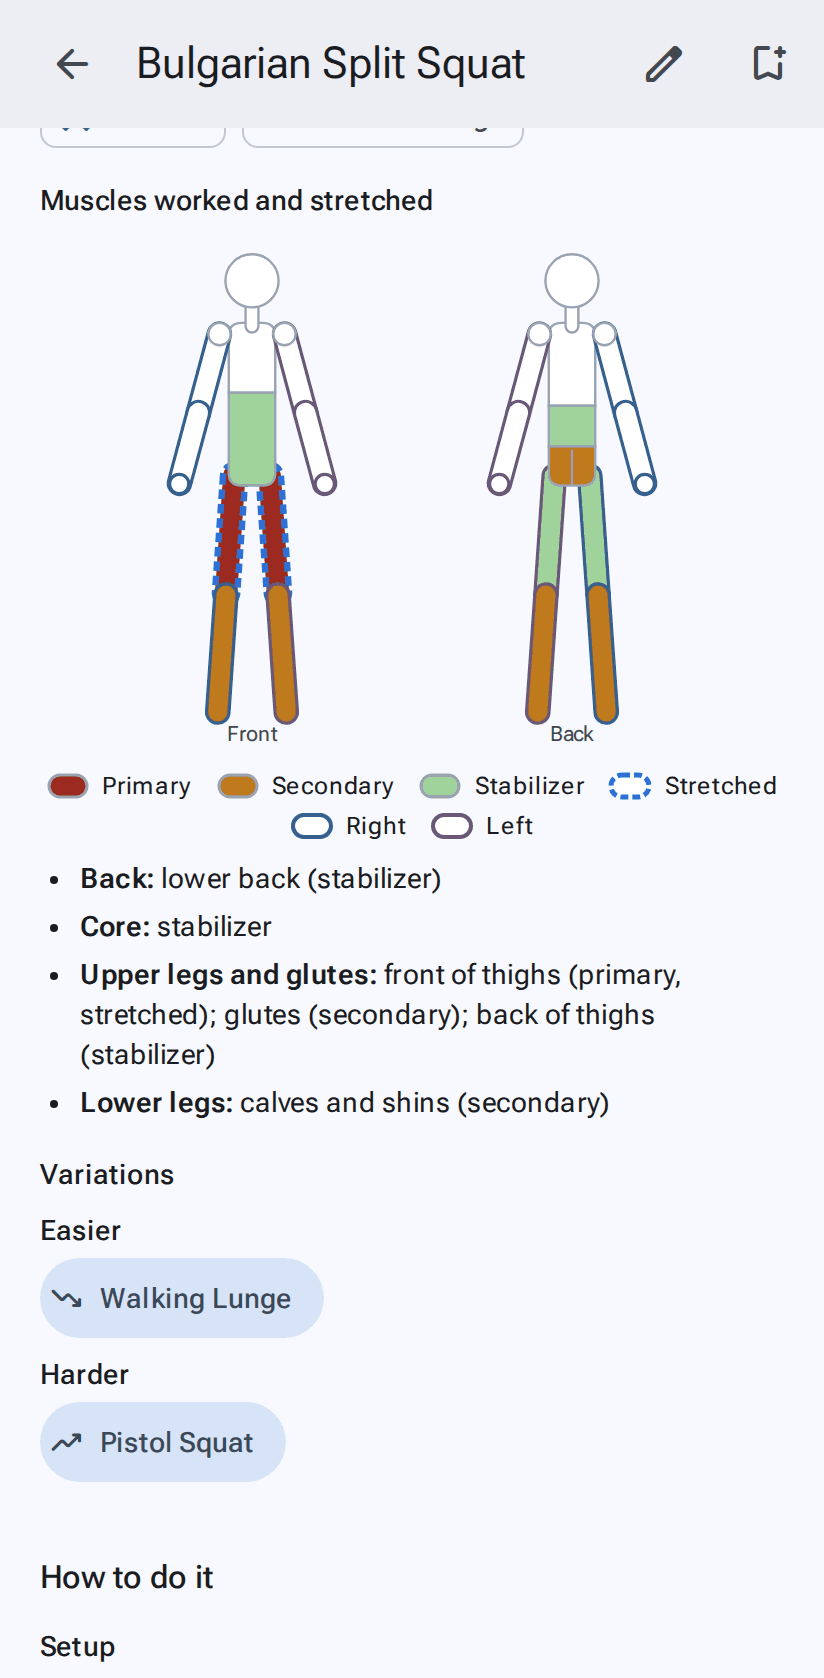
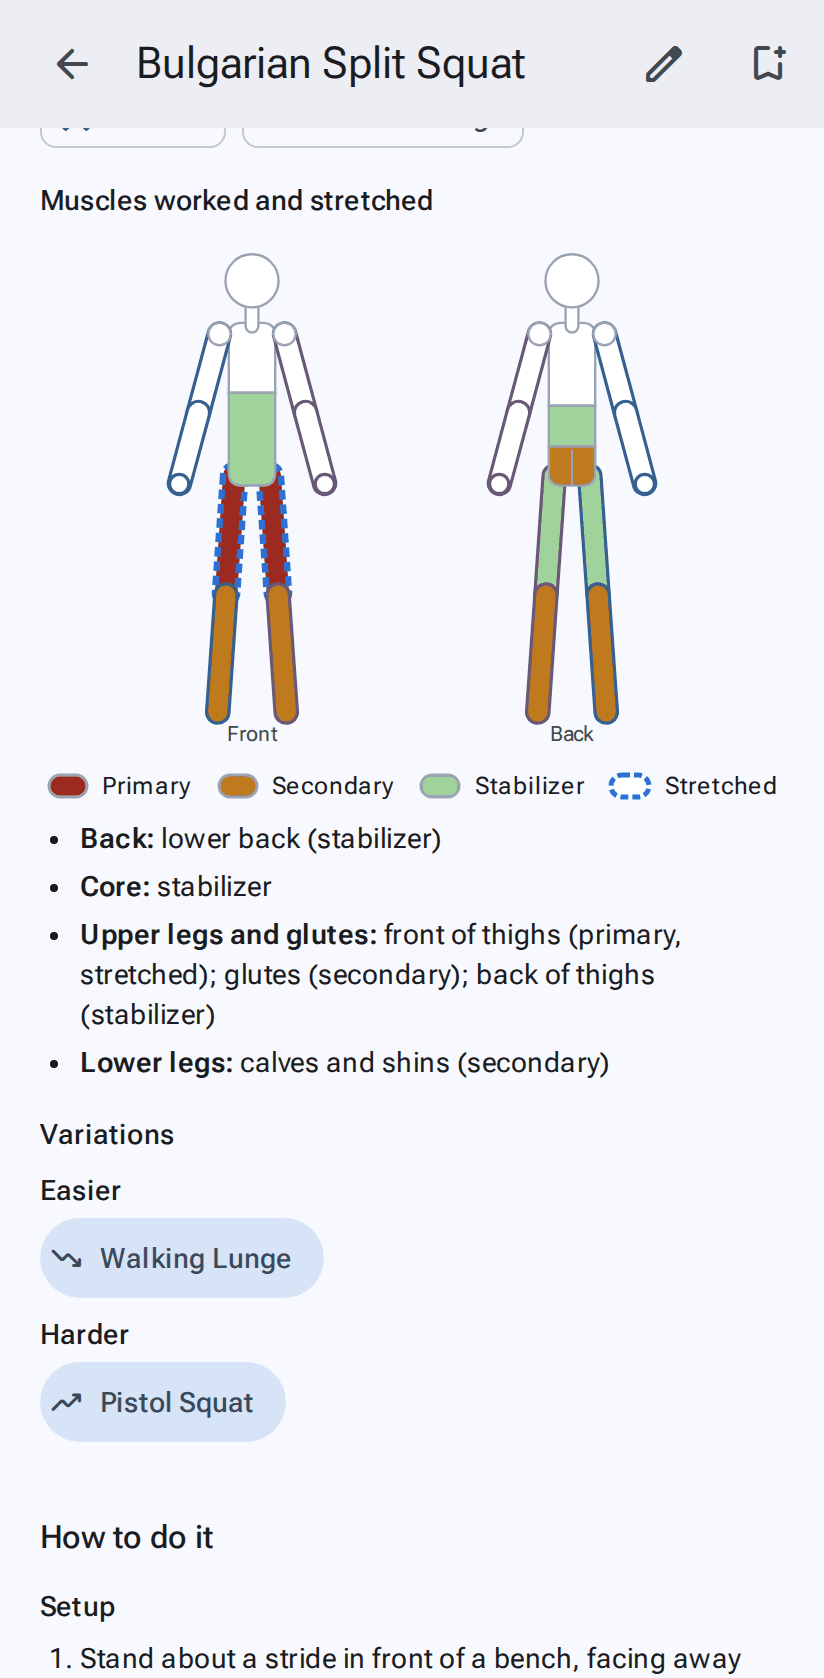
Muscle map: Right and Left out of the legend (owner); the outline colours stay
Claude-Session: https://claude.ai/code/session_0133kyx5MPf8aRU2sQwm2BG7

Changed region(s): [[0.0303, 0.4648, 0.9102, 1.0], [0.6068, 0.4648, 0.6371, 0.4958]]

diff --git a/src/app/2-muscles.js b/src/app/2-muscles.js
@@ -79,7 +79,7 @@ function workoutMusclesHTML(w, compact) {
   const words = g => [t[g] >= 0.05 ? mgNum(t[g]) : '', st.has(g) ? 'stretched' : ''].filter(Boolean).join(', ');
   const list = MUSCLE_HEADS.map(([h, gs]) => { const x = gs.filter(g => t[g] >= 0.05 || st.has(g));
     return x.length ? `<li><b>${h}:</b> ${x.map(g => MUSCLE_NAMES[g] === h ? words(g) : `${MUSCLE_NAMES[g].toLowerCase()} ${words(g)}`).join('; ')}</li>` : ''; }).join('');
-  return `${fig}${MG_SCALE}<div class="mg-legend body-small" aria-hidden="true">${stList.length ? mgSwatch('var(--mg-empty)', true, 'Stretched') : ''}${mgSides()}</div><p class="body-small muted mg-note">Estimated work, in sets: green up to 2, amber 2–5, red above 5. A set near the suggested reps counts 1; muscles that help count ½, those that steady you ¼. Stretches don't add to the sets: a dashed blue outline marks every group the workout stretches.${unrated ? ` ${plural(unrated, { one: '# exercise has', other: '# exercises have' })} no muscle ratings.` : ''}</p>
+  return `${fig}${MG_SCALE}${stList.length ? `<div class="mg-legend body-small" aria-hidden="true">${mgSwatch('var(--mg-empty)', true, 'Stretched')}</div>` : ''}<p class="body-small muted mg-note">Estimated work, in sets: green up to 2, amber 2–5, red above 5. A set near the suggested reps counts 1; muscles that help count ½, those that steady you ¼. Stretches don't add to the sets: a dashed blue outline marks every group the workout stretches.${unrated ? ` ${plural(unrated, { one: '# exercise has', other: '# exercises have' })} no muscle ratings.` : ''}</p>
     <ul class="mg-list body-medium">${list}</ul>`;
 }
 /* "Works the front of thighs and glutes" for a card's label */
@@ -92,7 +92,8 @@ function worksText(ex) {
    and feet a little apart, seen from the front (camera 0) and the back (180), drawn as even capsules along its bones
    (MG_LIMB wide), a slimmer torso split into its groups, the shoulders as limb-wide circles at the arm joints, a short
    neck, the head, and plain hands and feet. Each limb is outlined in its side's colour, as in the player (right blue,
-   left purple: seen from the front, the figure's right is on the left). fill(g) gives a group's fill (null = empty),
+   left purple: seen from the front, the figure's right is on the left; not in the legend, owner: a quiet cue, the fills are
+   what to read). fill(g) gives a group's fill (null = empty),
    stretched(g) whether it's outlined as stretched (dashed, over the side colour). */
 const MG_LIMB = 14, MG_TORSO = 29;
 let MG_BODY = null;
@@ -137,8 +138,6 @@ function muscleFigure(fill, stretched, label) {
   };
   return `<svg class="mg-map" viewBox="0 0 400 326" role="img" aria-label="${esc(label)}">${view(true, 0)}${view(false, 200)}</svg>`;
 }
-/* the side colours' key (the limbs' outlines, as in the player) */
-const mgSides = () => ['R', 'L'].map(d => `<span class="mg-key"><svg width="22" height="14" aria-hidden="true"><rect x="1.5" y="1.5" width="19" height="11" rx="5.5" fill="var(--mg-empty)" stroke="var(--md-${d === 'R' ? 'primary' : 'tertiary'})" stroke-width="2"/></svg>${d === 'R' ? 'Right' : 'Left'}</span>`).join('');
 /* one swatch of the legend */
 const mgSwatch = (fill, stretch, label) => `<span class="mg-key"><svg width="22" height="14" aria-hidden="true"><rect x="1.5" y="1.5" width="19" height="11" rx="5.5" fill="${fill}" stroke="${stretch ? 'var(--mg-stretch)' : 'var(--mg-line)'}" stroke-width="${stretch ? 2.5 : 1.5}"${stretch ? ' stroke-dasharray="4 2"' : ''}/></svg>${label}</span>`;
 /* the exercise page's section: map, legend, and a list under the seven headings */
@@ -152,6 +151,6 @@ function musclesHTML(ex) {
   const label = MUSCLE_GROUPS.filter(g => m[g] || s.includes(g)).map(g => `${MUSCLE_NAMES[g]}: ${words(g)}`).join('. ');
   return `<section class="muscles" aria-labelledby="musclesTitle"><h3 class="title-small" id="musclesTitle">Muscles${s.length ? (Object.keys(m).length ? ' worked and stretched' : ' stretched') : ' worked'}</h3>
     ${muscleFigure(g => m[g] ? `var(--mg-${m[g]})` : null, g => s.includes(g), 'Muscle map. ' + label)}
-    <div class="mg-legend body-small" aria-hidden="true">${[3, 2, 1].map(v => mgSwatch(`var(--mg-${v})`, false, RATING_NAMES[v])).join('')}${mgSwatch('var(--mg-empty)', true, 'Stretched')}${mgSides()}</div>
+    <div class="mg-legend body-small" aria-hidden="true">${[3, 2, 1].map(v => mgSwatch(`var(--mg-${v})`, false, RATING_NAMES[v])).join('')}${mgSwatch('var(--mg-empty)', true, 'Stretched')}</div>
     <ul class="mg-list body-medium">${list}</ul></section>`;
 }

diff --git a/tools/e2e/muscles.py b/tools/e2e/muscles.py
@@ -18,7 +18,7 @@ async def main():
         check('section title', await pg.evaluate("$('#musclesTitle').textContent"), 'Muscles worked')
         check('map parts filled', await pg.evaluate("[...document.querySelectorAll('.mg-map [fill^=\"var(--mg-\"]')].map(e => e.getAttribute('fill')).filter(f => f !== 'var(--mg-empty)').length"), 11)
         check('squat list', await pg.evaluate("[...document.querySelectorAll('.mg-list li')].map(li => li.textContent)"), ['Back: lower back (stabilizer)', 'Core: stabilizer', 'Upper legs and glutes: front of thighs (primary); glutes (secondary); back of thighs (stabilizer)', 'Lower legs: calves and shins (secondary)'])
-        check('legend', await pg.evaluate("$('.mg-legend').textContent"), 'PrimarySecondaryStabilizerStretchedRightLeft', 'the side colours too (the limbs are outlined in them)')
+        check('legend', await pg.evaluate("$('.mg-legend').textContent"), 'PrimarySecondaryStabilizerStretched', 'not the side colours (the limbs are outlined in them, a quiet cue)')
         check('light primary colour', await pg.evaluate("getComputedStyle(document.documentElement).getPropertyValue('--mg-3').trim()"), '#9d2a20')
         await pg.goto(URL + '#/play/yoga-low-lunge'); await pg.wait_for_timeout(500)
         check('low lunge title', await pg.evaluate("$('#musclesTitle').textContent"), 'Muscles worked and stretched')

diff --git a/HANDOFF.md b/HANDOFF.md
@@ -417,8 +417,8 @@ too), `backThigh` (hamstrings), `lowerLegs` (calves, shins).
   the animated figure itself, `mgBody`: the engine's standing body from `DEFAULT_SEGMENTS`, arms 15° out and feet a little
   apart, projected at cameras 0 and 180; even capsules `MG_LIMB` 14 wide along its bones, a `MG_TORSO` 29-wide torso
   split into its groups, the shoulders limb-wide circles at the arm joints, a short neck, the head, plain hands and
-  feet; each limb outlined in its side's colour as in the player, right blue, left purple, with Right and Left in the
-  legend; the figure's right is on the left seen from the front), each group
+  feet; each limb outlined in its side's colour as in the player, right blue, left purple, the figure's right on the left
+  seen from the front; not in the legend (owner: a quiet cue, the fills are what to read)), each group
   filled by rating (`--mg-1`…`--mg-3` in `src/head.html`: lighter to darker in the light theme, darker to brighter in
   the dark one, so the order reads in greyscale), stretched groups outlined in dashed blue (`--mg-stretch`), a legend,
   and a list under seven headings (arms, shoulders, chest, back, core, upper legs and glutes, lower legs). Test:

diff --git a/wiki/Exercises.md b/wiki/Exercises.md
@@ -78,8 +78,6 @@ About shows which muscle groups an exercise works on a front and back outline of
 - **Primary** (red): what the exercise is for. **Secondary** (amber): muscles that help move the load.
   **Stabilizer** (green): muscles that hold you steady. Unfilled: not worked.
 - A **dashed blue outline**: that group is stretched.
-- The figure is the same one that does the exercises. Its limbs are outlined in the player's side colours: **right**
-  blue, **left** purple. Seen from the front, its right side is on your left.
 - The list below the figure says the same in words, under Arms, Shoulders, Chest, Back, Core, Upper legs and glutes,
   and Lower legs. The colours get darker the more a muscle works (brighter in the dark theme).
 - Eleven groups: shoulders, chest, upper back, lower back, biceps and forearms, triceps, core, front of thighs (with the

diff --git a/docs/history.md b/docs/history.md
@@ -270,7 +270,8 @@ By the HANDOFF section that describes the current behaviour.
 - Oct 2026: the map's outline was drawn by hand (legs 1.35× the torso against the animated figure's 1.6×, tapered
   limbs 12–18 wide, a 40-wide torso, shoulder circles of radius 11, a neck block, no hands or feet, grey outlines).
   Owner's choice from the options offered: drawn from the engine's own body, even limbs, a slimmer torso, limb-wide
-  shoulders, a short neck, hands and feet, the side colours on the limbs (not the filled head).
+  shoulders, a short neck, hands and feet, the side colours on the limbs (not the filled head). Right and Left were in
+  the legend at first; owner: keep the outline colours but not in the legend (they read less easily than the fills).
 
 ### 20-minute workouts and the default instruction (Oct 2026)
 
